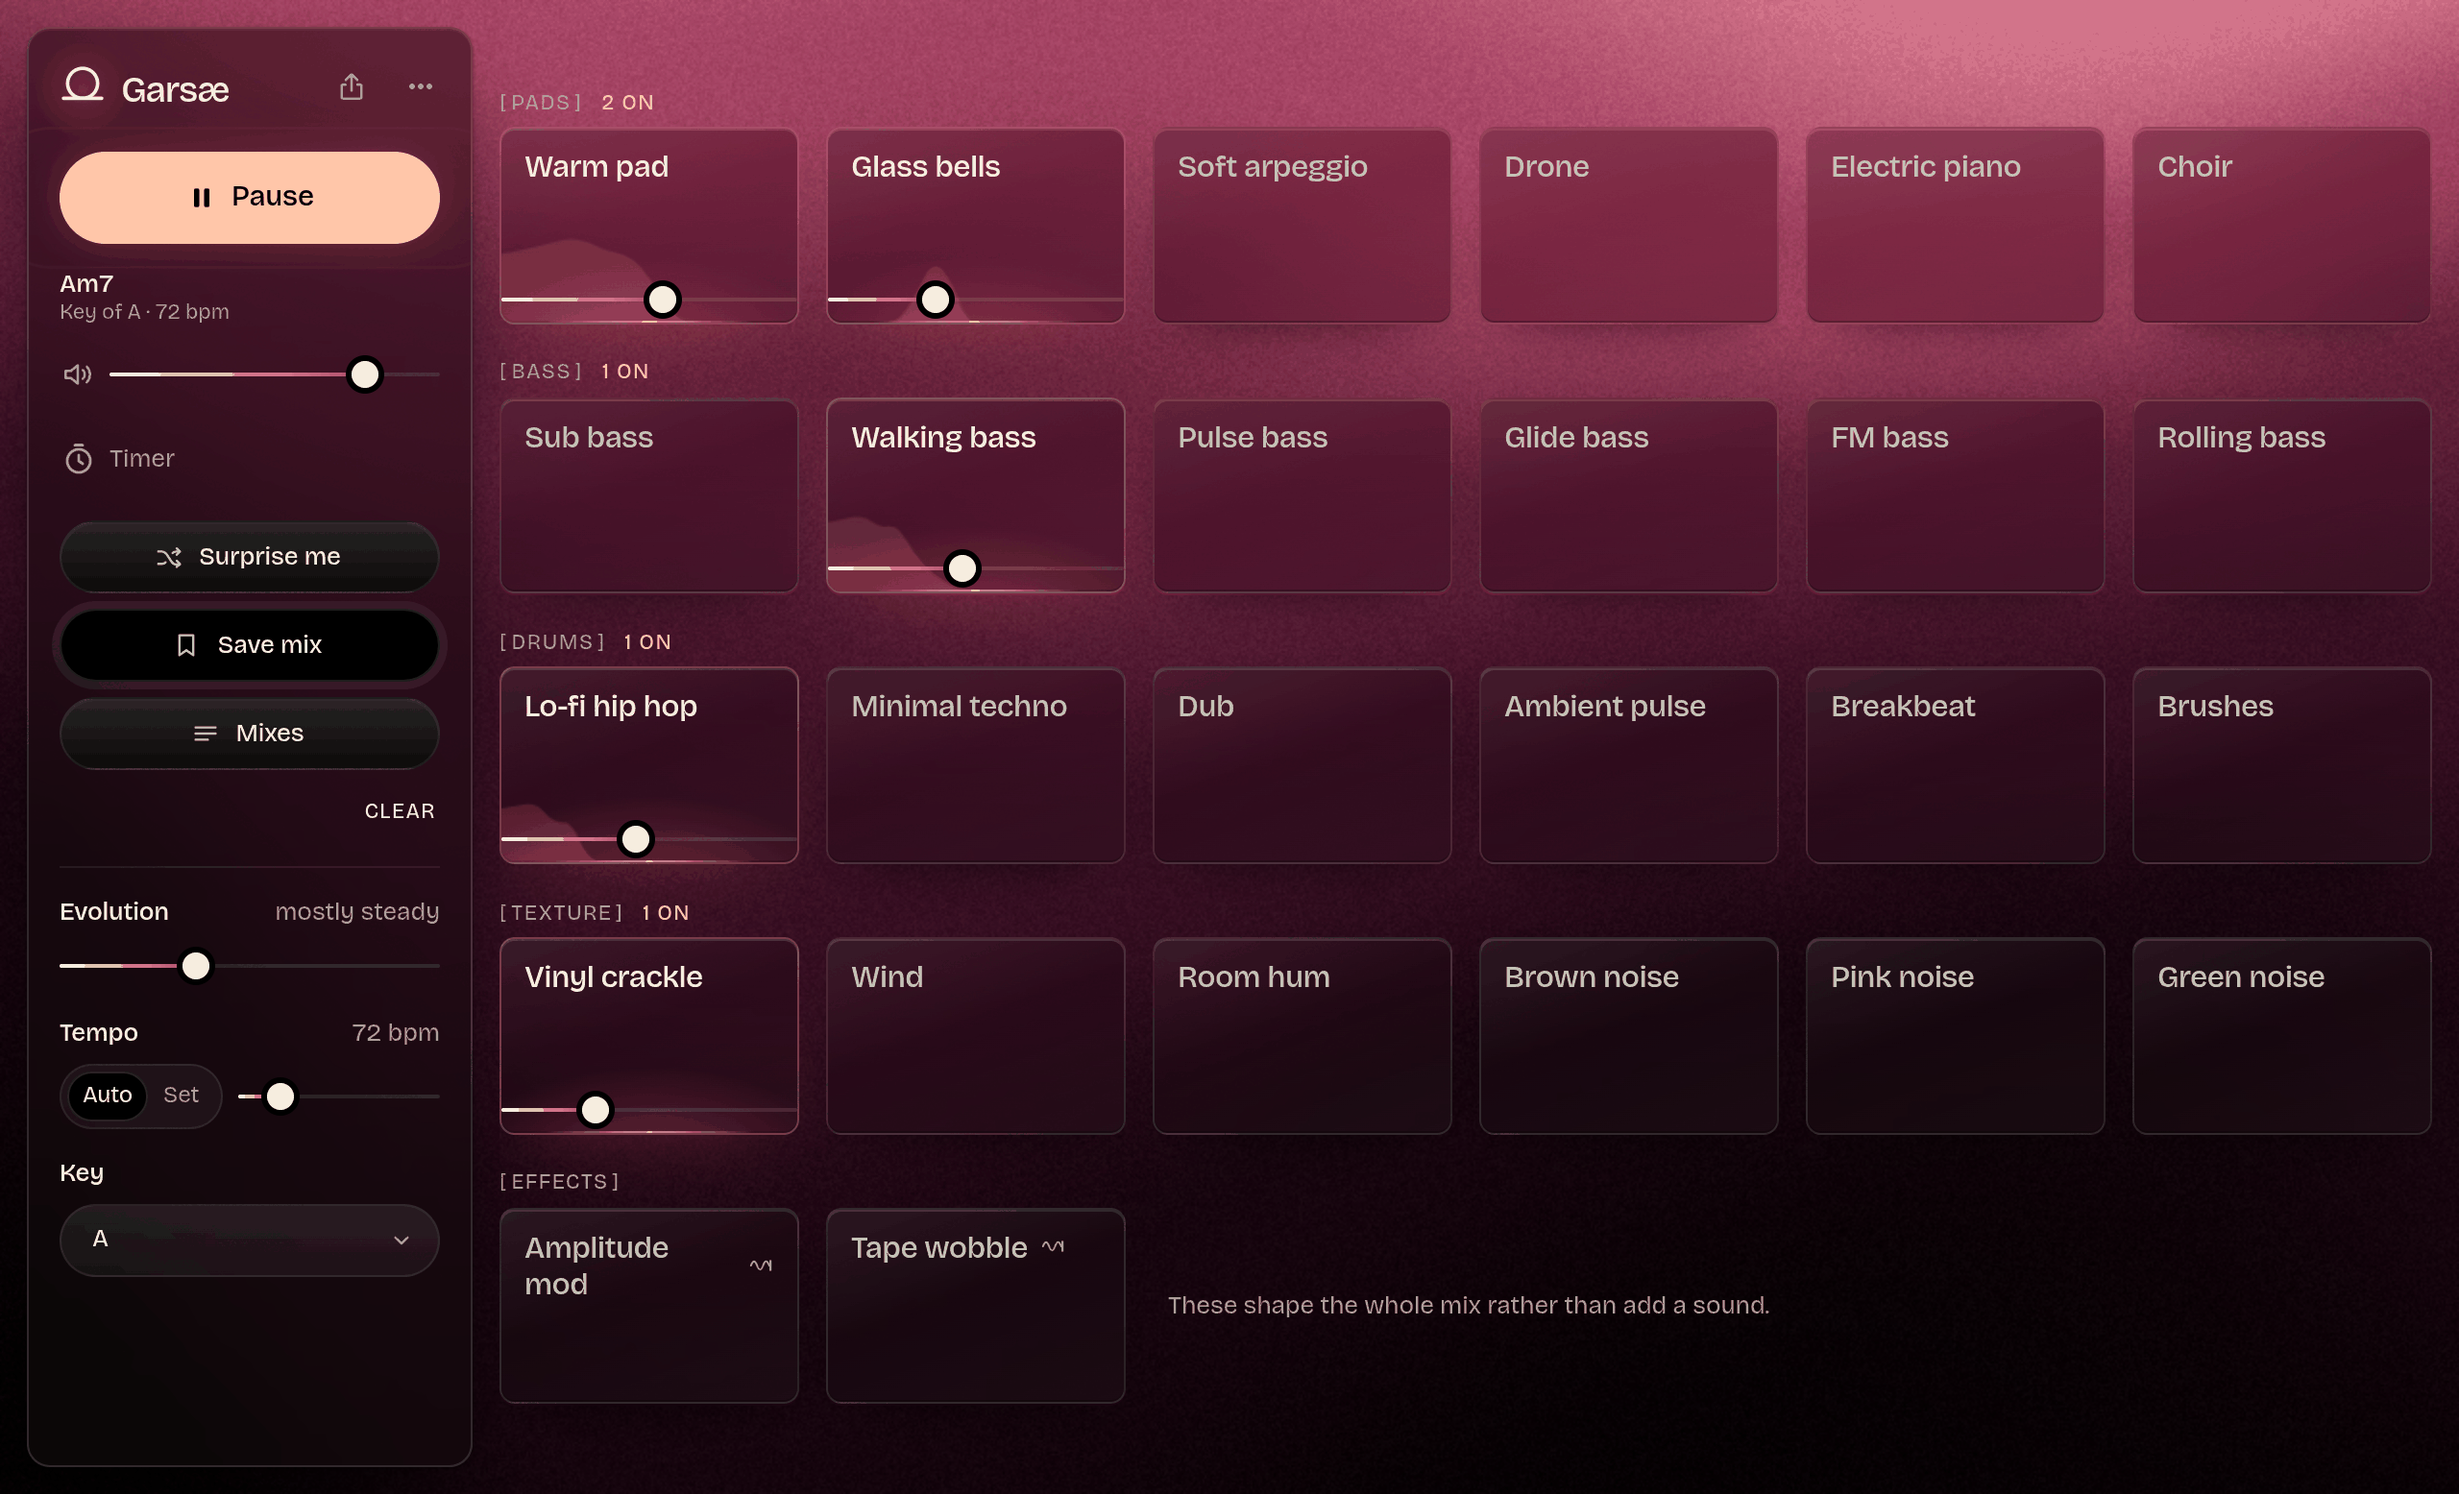
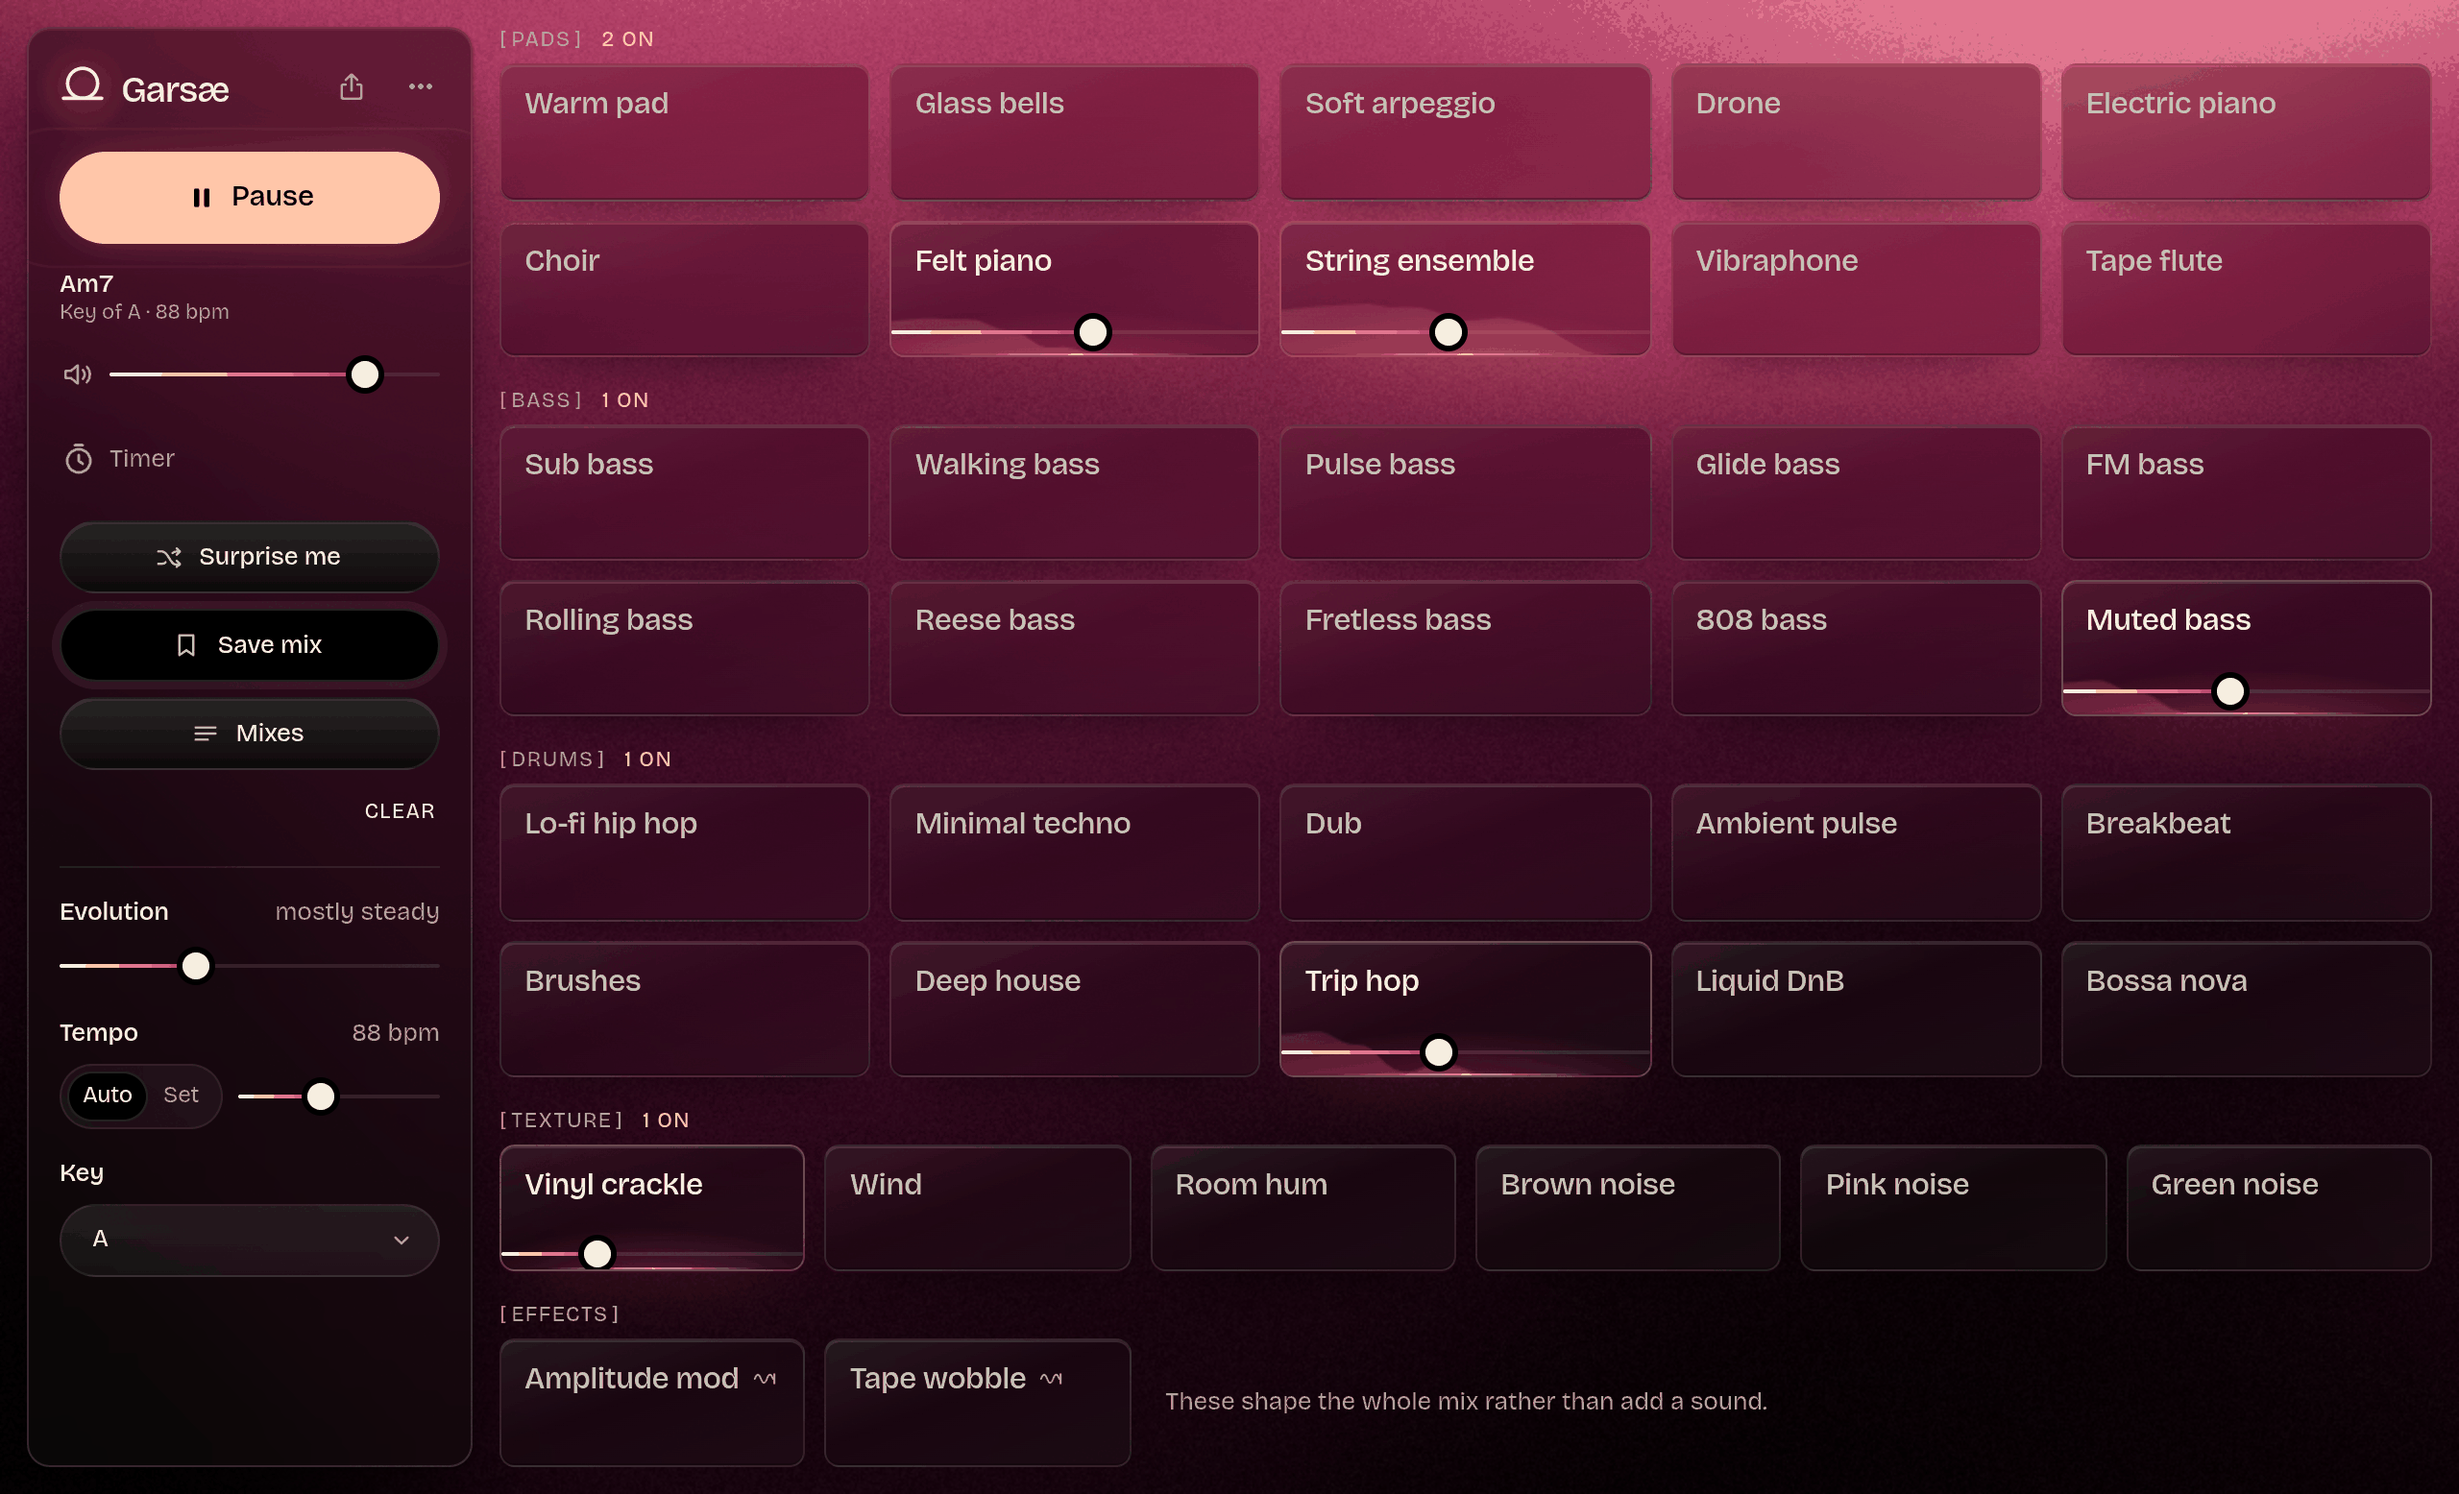
Retake the README screenshots for the larger tile grid

diff --git a/README.md b/README.md
@@ -13,7 +13,7 @@
 Endless, generative focus music in the browser. Toggle instrument tiles, mix their levels, and let it run in the background. Every sound is synthesized live with the Web Audio API, so nothing repeats. See [DESIGN.md](DESIGN.md) for the full design.
 
 <p align="center">
-  <img src="docs/images/desktop.png" alt="Garsæ on desktop, playing a lo-fi mix with the controls in the sidebar" width="76%">
+  <img src="docs/images/desktop.png" alt="Garsæ on desktop, playing a felt piano mix with the controls in the sidebar" width="76%">
   &nbsp;
   <img src="docs/images/phone.png" alt="Garsæ on a phone, with the player floating at the bottom" width="20%">
 </p>
